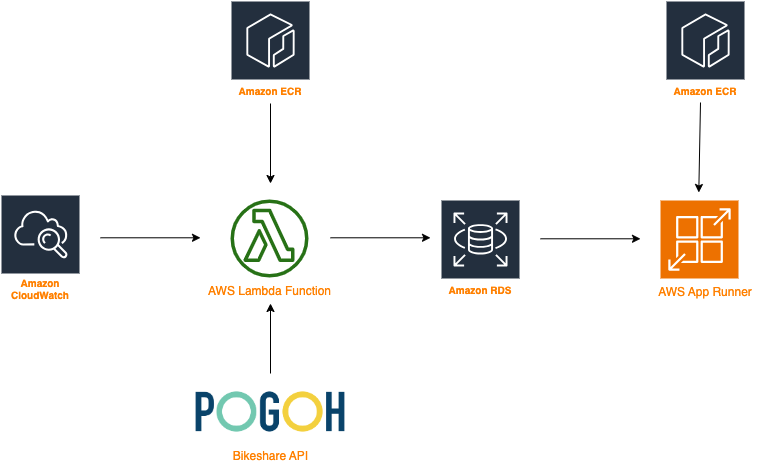
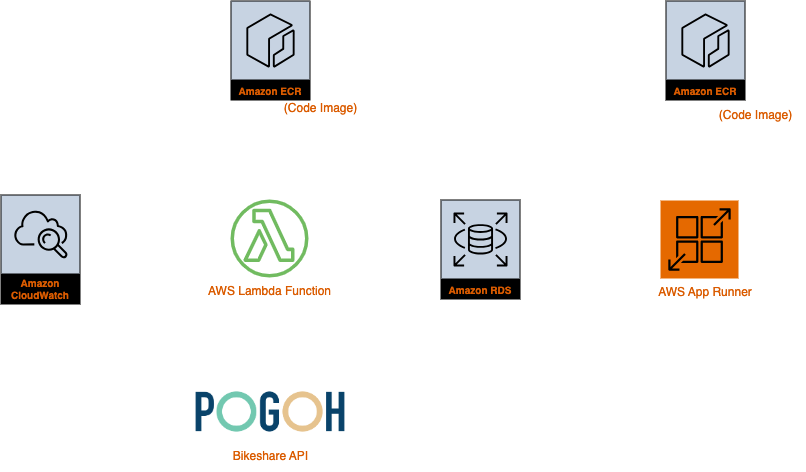
made diagram background transparent

diff --git a/README.md b/README.md
@@ -14,4 +14,4 @@ Front-End: Dockerized Plotly Dash App on AWS App Runner
 
 The data refreshes every 30 minutes, at :20 and :50 of each hour.
 
-![alt text](image.png)
+![alt text](image-1.png)
